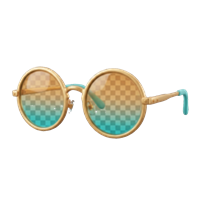
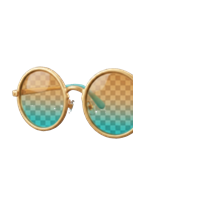
fix: quitar la patilla larga de las gafas (se veia saliendo de la oreja)
El arte de gafas.png esta dibujado en 3/4 con la patilla derecha larga
y muy visible. Se borro (alpha=0) todo lo que sobresalia a la derecha
del aro del lente, midiendo el borde real en pixeles. No se movio ni
escalo el contenido existente, asi que el top/left/ancho que el
usuario ya habia calibrado en vivo sigue siendo valido.

Changed region(s): [[0.66, 0.36, 0.96, 0.66]]

diff --git a/ESTADO.md b/ESTADO.md
@@ -1,6 +1,9 @@
 # ESTADO — SuperErre
 Última actualización: 2026-08-27 | Sesión actual: 6/7
 
+⏸ CHECKPOINT — Sesión 6/7. **Gafas: la patilla larga se veía saliendo por detrás de la oreja del León — corregido editando la IMAGEN, no la posición.** El usuario calibró top/left/ancho con el modo `?calibrar=1` (14/33/91) y quedaron bien puestas, pero el arte de `gafas.png` está dibujado en 3/4 con la patilla derecha larga y muy visible (no de frente) — eso es lo que sobresalía. Medí en píxeles dónde terminaba el aro del lente derecho (x≈132 de 200) y borré (alpha=0) todo lo que seguía a la derecha de ahí directo en el PNG con PowerShell/System.Drawing — la patilla y el gancho de la oreja desaparecieron, el lente quedó intacto y redondo. Como el recorte es solo transparencia agregada AL COSTADO del lienzo (no se movió ni escaló el contenido existente), el top/left/ancho que el usuario ya había calibrado sigue siendo válido — no hace falta que los vuelva a ajustar. tsc + build limpios (17/17).
+Próximo paso: confirmar con el usuario que las gafas ya se ven de frente, y seguir con Capa Dorada y Corona por el mismo modo de calibración.
+
 ⏸ CHECKPOINT — Sesión 6/7. **¡Funcionó! El modo calibración resolvió el sombrero a la primera.** El usuario abrió `/app/premios?calibrar=1`, movió los 3 sliders hasta que el sombrero le quedó bien puesto (mandó captura confirmando visualmente), y los valores finales que encontró (`top:0, left:25, ancho:88`) quedaron fijos en `lib/accesorios-data.ts` — **son valores VERIFICADOS visualmente de verdad** (por el usuario, en su celular real), a diferencia de los 3 intentos anteriores que eran cálculo/estimación sin poder ver el resultado. Nota interesante: el valor real (`left:25`) NO coincide con el que había calculado geométricamente en la ronda anterior (`left:50`, derivado de la matemática de "contain" del video) — confirma que había algún supuesto incorrecto en ese cálculo (probablemente el video no está perfectamente centrado como asumí, o algo en el layout real difiere), y que la calibración en vivo era el camino correcto, no seguir afinando la fórmula a ciegas. tsc + build limpios (17/17).
 Próximo paso: esperar que el usuario haga lo mismo con gafas, capa y corona (mismo modo calibración) y mande los 3 números de cada una.
 
